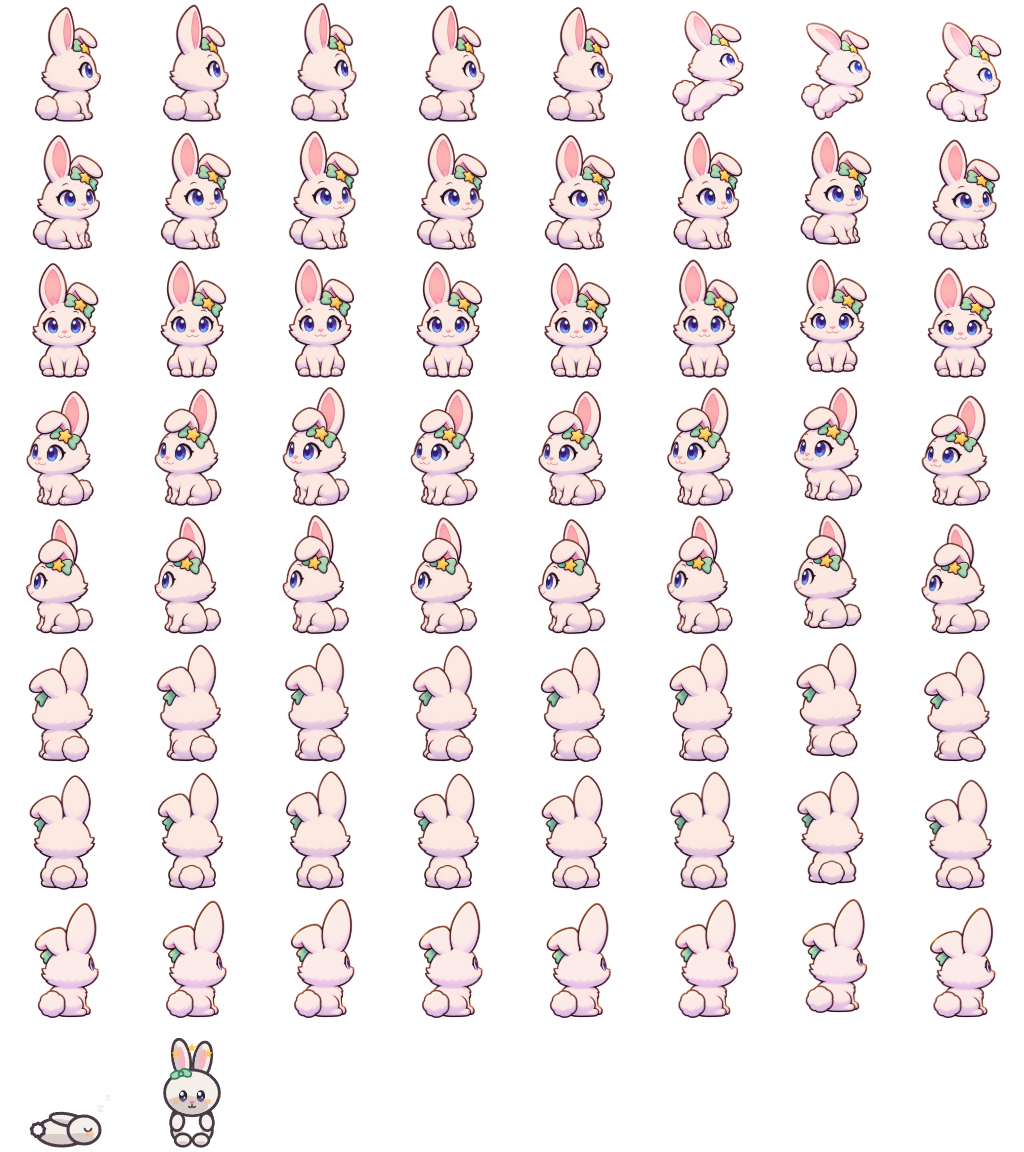
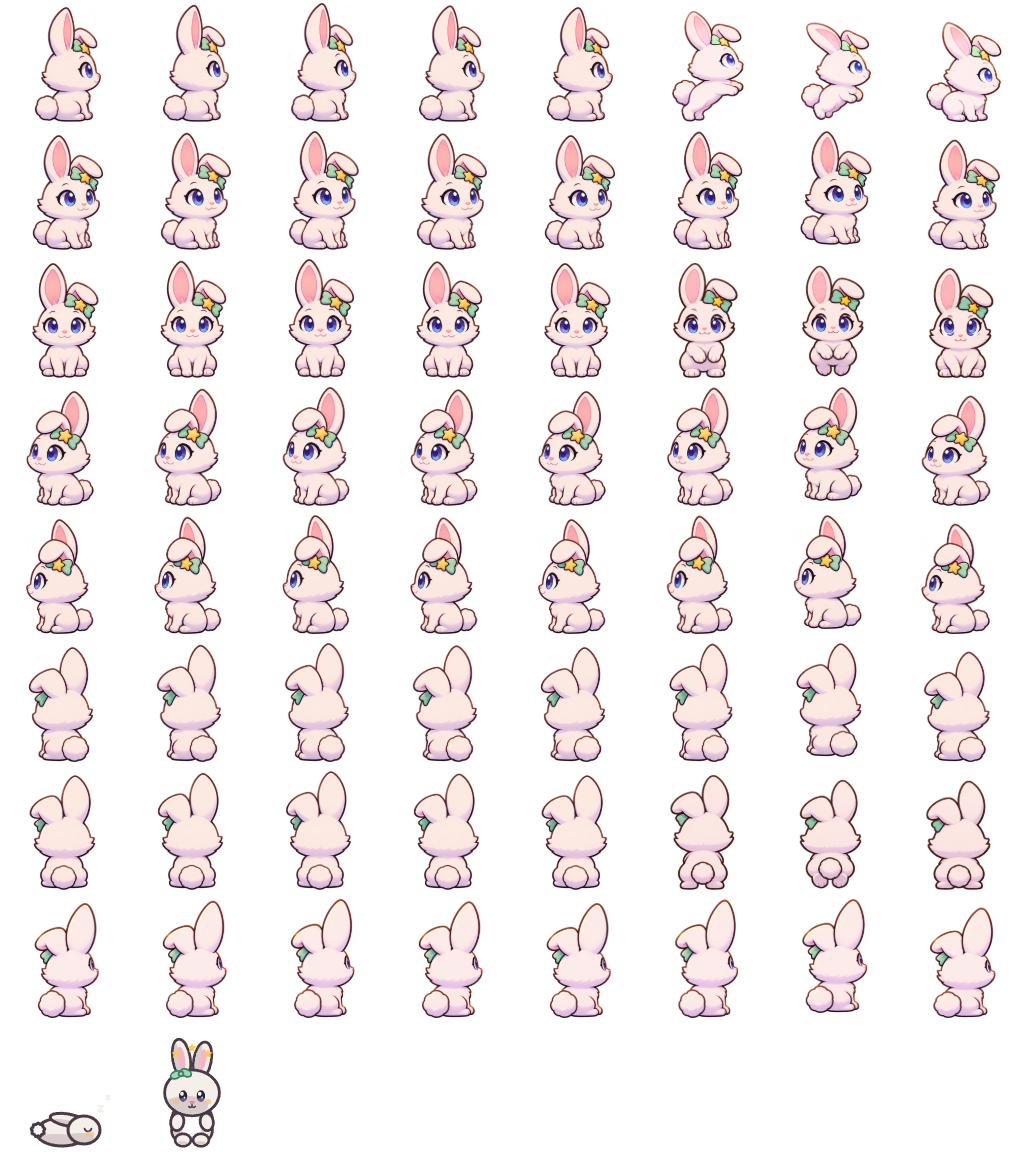
토리 0°·180° 걷기 4장씩 적용(Tori_Front_Back_Walk_4Frames): f01 = 대기 그림, 뜨는 높이 6px, 앞 눈 색 대기와 같음, 리본 귀 맞음 — 점검 notes/front_back_claude_check.md
Claude-Session: https://claude.ai/code/session_01HrPbr5mJU6i3pPUacduwos

diff --git a/reference/Tori_8_Direction_Pack/Tori_Walk_8D_4Frames_Pack/notes/front_back_README.md b/reference/Tori_8_Direction_Pack/Tori_Walk_8D_4Frames_Pack/notes/front_back_README.md
@@ -1,0 +1,26 @@
+# Tori Front / Back Walk Sprites
+
+Two directions are included: 000° front and 180° back.
+
+## Contents
+- `000_front/`: f01–f04 individual 512×512 transparent PNGs
+- `180_back/`: f01–f04 individual 512×512 transparent PNGs
+- `strips/`: 2048×512 transparent four-frame strips
+
+## Frame order
+- f01: exact idle reference image copied unchanged
+- f02: push-off
+- f03: airborne (feet lifted about 6 px)
+- f04: landing
+
+## Technical notes
+- Canvas: 512×512 RGBA PNG
+- Ground line: y=496 for grounded frames
+- Airborne frame feet: y≈490
+- Character center: x≈256
+- Same 1.06 scale factor applied to all six generated movement frames
+- No mirroring
+- Mint ribbon and folded ear stay on Tori's own left ear, as in each direction's idle reference
+- No shadows, props, text, or background
+
+The game can play f01 f01 · f02 · f03 · f04 f04 at its configured cadence.

diff --git a/reference/Tori_8_Direction_Pack/Tori_Walk_8D_4Frames_Pack/notes/front_back_claude_check.md b/reference/Tori_8_Direction_Pack/Tori_Walk_8D_4Frames_Pack/notes/front_back_claude_check.md
@@ -1,0 +1,12 @@
+# 토리 0°·180° 걷기 — Claude 점검 (2026-11-18, Tori_Front_Back_Walk_4Frames.zip)
+
+| 항목 | 0° 앞 | 180° 뒤 | 목표 (order-tori-walk-fix) |
+|---|---|---|---|
+| f01 | 대기 그림과 픽셀까지 같음 | 같음 | 같음 |
+| 눈 색 | #4D4699~#50489E (대기 #4D479C) | — (안 보임) | f01과 같게 |
+| 머리 높이 | 눈 −7~+4px | 리본 −23(f02 박차기)~+3px | ±6px |
+| 뜨는 높이 f03 | 6px | 6px | 약 6px |
+| 귀 끝 | +10~+20px | +18~+20px | ±15px |
+| 리본 | 보는 쪽 오른쪽 (맞음) | 보는 쪽 왼쪽 (맞음) | 토리 자신의 왼쪽 귀 |
+
+90° 판보다 크게 나아졌다. 귀 끝(착지)과 뒷모습 박차기의 머리 높이만 목표보다 조금 크다.
